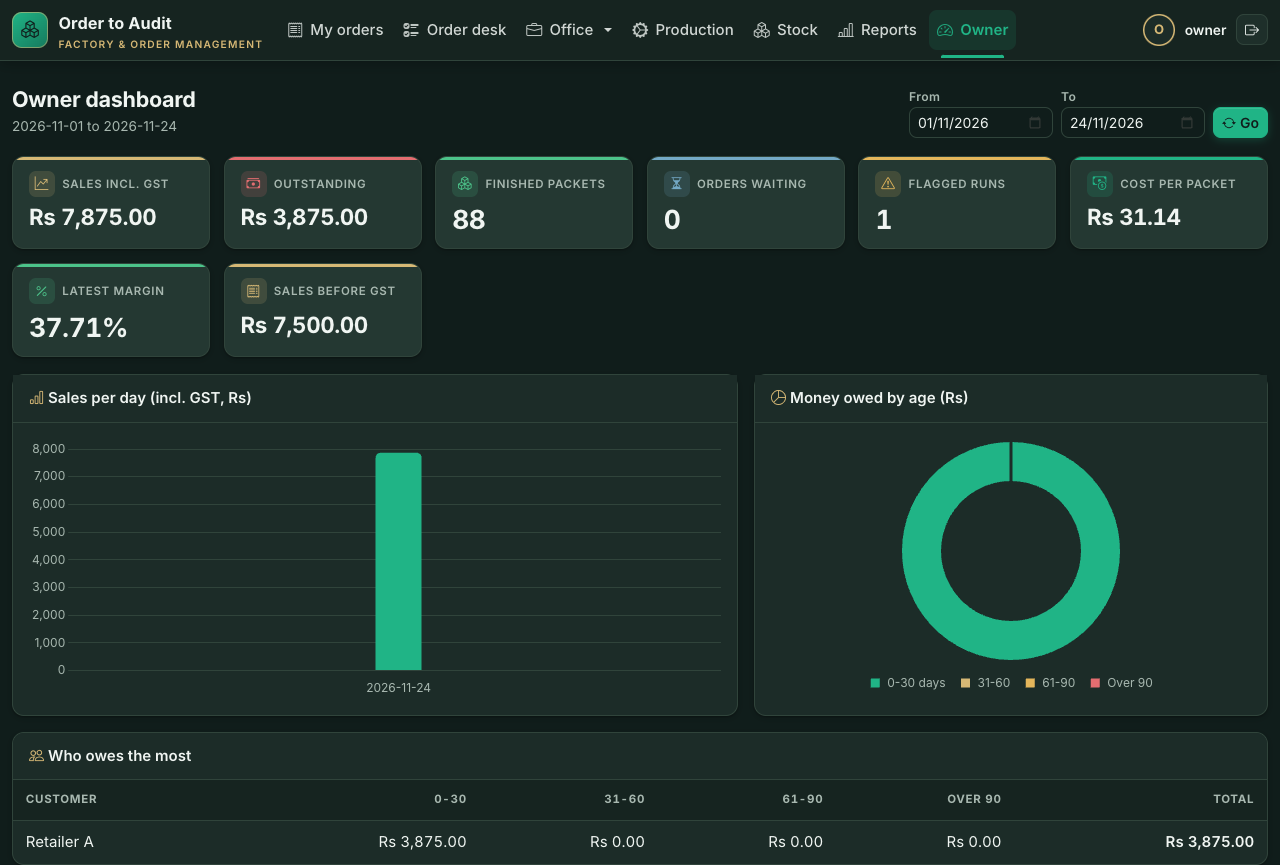
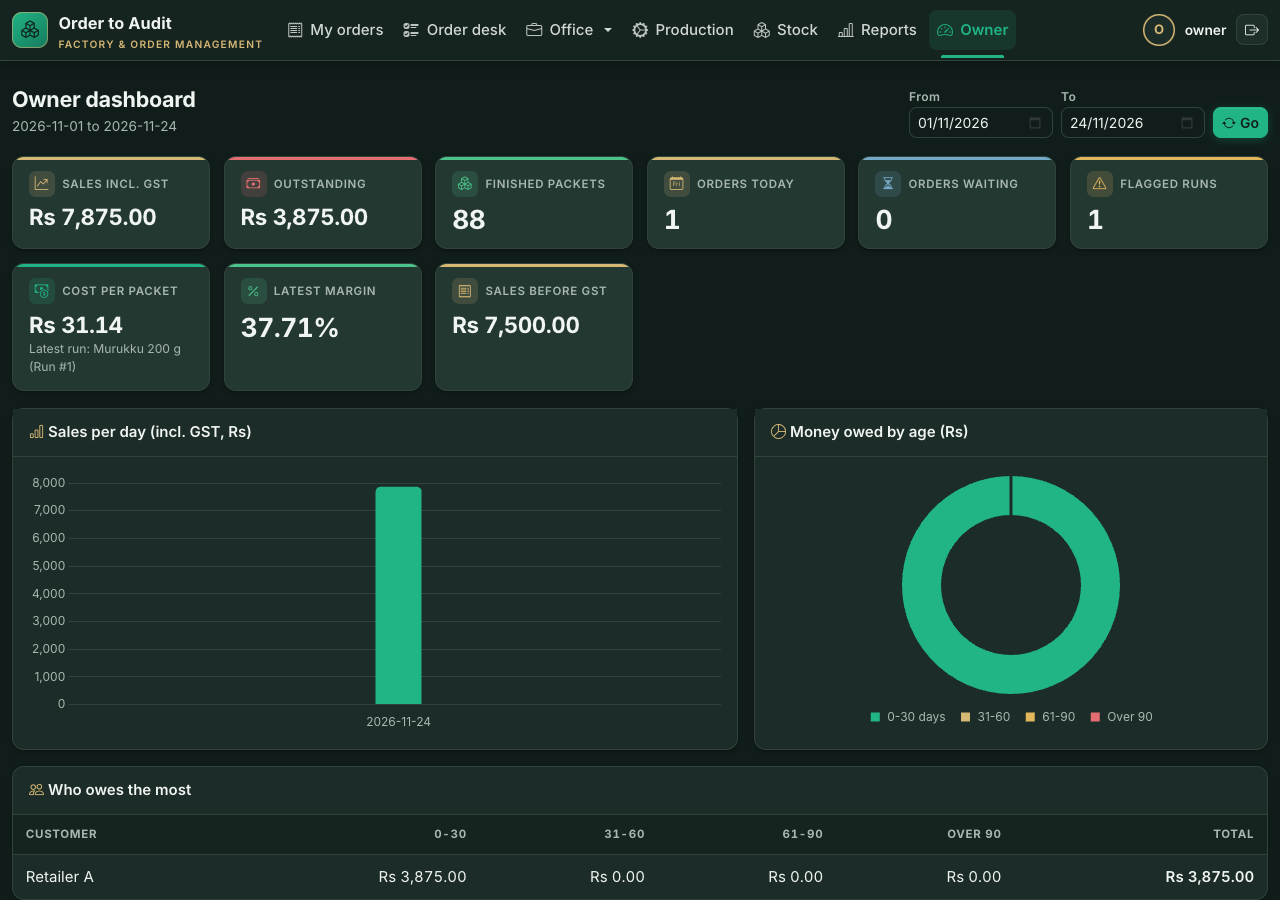
M7, M10, M11: seller details from config, pouch cross-check, run correction hint

diff --git a/src/main/resources/templates/production/run.html b/src/main/resources/templates/production/run.html
@@ -43,6 +43,8 @@
   <form method="post" th:action="@{/production/runs/{id}/reverse(id=${run.summary.id})}"
         th:if="${run.summary.status.name() == 'POSTED'}">
     <button class="btn btn-outline-danger" id="reverse-run" type="submit">Reverse this run</button>
+    <div class="text-muted small mt-1" id="correction-hint">Posted runs are never edited, because their cost is already in the stock
+      ledger. To fix a wrong overhead or count, reverse this run and record it again with the right figures.</div>
   </form>
   <a class="btn btn-link" th:href="@{/production}">Back to runs</a>
 </div>

diff --git a/src/test/java/com/orderaudit/service/RunCorrectionAndPackagingIntegrationTest.java b/src/test/java/com/orderaudit/service/RunCorrectionAndPackagingIntegrationTest.java
@@ -1,0 +1,101 @@
+package com.orderaudit.service;
+
+import static org.assertj.core.api.Assertions.assertThat;
+import static org.assertj.core.api.Assertions.assertThatThrownBy;
+
+import com.orderaudit.domain.ActualLine;
+import com.orderaudit.domain.OverheadInput;
+import com.orderaudit.domain.ProductionRun;
+import com.orderaudit.domain.RunStatus;
+import java.math.BigDecimal;
+import java.time.LocalDate;
+import java.util.List;
+import org.junit.jupiter.api.BeforeEach;
+import org.junit.jupiter.api.Test;
+import org.springframework.beans.factory.annotation.Autowired;
+import org.springframework.boot.test.context.SpringBootTest;
+import org.springframework.boot.testcontainers.service.connection.ServiceConnection;
+import org.springframework.transaction.annotation.Transactional;
+import org.testcontainers.junit.jupiter.Container;
+import org.testcontainers.junit.jupiter.Testcontainers;
+import org.testcontainers.postgresql.PostgreSQLContainer;
+
+/**
+ * Audit findings M7 and M11.
+ * M7: a posted run is never edited (its cost went into the stock ledger, which is append-only). A wrong
+ * overhead is fixed by reversing the run and posting it again with the right figures.
+ * M11: every packet made, good or damaged, used one pouch, so fewer pouches than packets cannot be true.
+ */
+@SpringBootTest
+@Testcontainers
+@Transactional
+class RunCorrectionAndPackagingIntegrationTest {
+
+    @Container
+    @ServiceConnection
+    static PostgreSQLContainer postgres = new PostgreSQLContainer("postgres:16-alpine");
+
+    private static final LocalDate DAY = LocalDate.of(2026, 11, 21);
+
+    @Autowired ItemService itemService;
+    @Autowired RecipeService recipeService;
+    @Autowired PackConfigService packConfigService;
+    @Autowired StockAdjustmentService adjustments;
+    @Autowired SupplierService supplierService;
+    @Autowired ProductionService productionService;
+    @Autowired StockService stock;
+
+    BenchmarkFixture f;
+
+    @BeforeEach
+    void setUp() {
+        f = BenchmarkFixture.create(" m7m11", null, 30, true, itemService, recipeService, packConfigService,
+                adjustments, supplierService);
+    }
+
+    private ProductionRun run(long good, long damaged, long pouchesUsed, long labourPaise) {
+        return productionService.complete(f.config.getId(), BigDecimal.ONE, DAY, good, damaged,
+                List.of(new ActualLine(f.pouch.getId(), pouchesUsed), new ActualLine(f.carton.getId(), 9)),
+                List.of(new OverheadInput("Labour", labourPaise)), "production");
+    }
+
+    @Test
+    void aWrongOverheadIsCorrectedByReversingAndPostingTheRunAgain() {
+        ProductionRun wrong = run(188, 6, 194, 180_000);
+        ProductionRun reversed = productionService.reverse(wrong.getId(), "admin");
+        ProductionRun corrected = run(188, 6, 194, 100_000);
+
+        assertThat(reversed.getStatus()).isEqualTo(RunStatus.REVERSED);
+        assertThat(corrected.getStatus()).isEqualTo(RunStatus.POSTED);
+        assertThat(corrected.getCostPerPacket()).isLessThan(wrong.getCostPerPacket());
+        assertThat(stock.balanceOf(f.murukku.getId())).isEqualTo(50 + 188);   // only the corrected run counts
+        assertThat(stock.reconcile()).isEmpty();
+    }
+
+    @Test
+    void fewerPouchesThanPacketsMadeIsRefused() {
+        // 188 good + 6 damaged = 194 packets, but only 190 pouches recorded as used.
+        assertThatThrownBy(() -> run(188, 6, 190, 180_000))
+                .isInstanceOf(IllegalArgumentException.class)
+                .hasMessageContaining("Packaging count does not add up").hasMessageContaining("194");
+        assertThat(stock.balanceOf(f.pouch.getId())).isEqualTo(500);          // nothing was posted
+    }
+
+    @Test
+    void exactlyOnePouchPerPacketIsAccepted() {
+        // 188 good + 6 damaged = 194 packets and exactly 194 pouches. (The official Rs 31.14 figure is proven
+        // in ProductionBenchmarkIntegrationTest, which also has the 60 kg flour purchase and both overheads.)
+        ProductionRun run = run(188, 6, 194, 180_000);
+        assertThat(run.getStatus()).isEqualTo(RunStatus.POSTED);
+        assertThat(stock.balanceOf(f.pouch.getId())).isEqualTo(500 - 194);
+    }
+
+    @Test
+    void whenNoPouchCountIsGivenThePlannedCountIsCheckedInstead() {
+        // The plan expects 200 packets, so 200 pouches are planned; 201 packets cannot come out of that.
+        assertThatThrownBy(() -> productionService.complete(f.config.getId(), BigDecimal.ONE, DAY, 195, 6,
+                List.of(), List.of(), "production"))
+                .isInstanceOf(IllegalArgumentException.class)
+                .hasMessageContaining("Packaging count does not add up");
+    }
+}

diff --git a/src/test/java/com/orderaudit/service/InvoiceSellerDetailsIntegrationTest.java b/src/test/java/com/orderaudit/service/InvoiceSellerDetailsIntegrationTest.java
@@ -1,0 +1,78 @@
+package com.orderaudit.service;
+
+import static org.assertj.core.api.Assertions.assertThat;
+
+import com.lowagie.text.pdf.PdfReader;
+import com.lowagie.text.pdf.parser.PdfTextExtractor;
+import com.orderaudit.domain.Customer;
+import com.orderaudit.domain.Invoice;
+import com.orderaudit.domain.Item;
+import com.orderaudit.domain.ItemType;
+import com.orderaudit.domain.OrderLineRequest;
+import com.orderaudit.domain.SalesOrder;
+import com.orderaudit.domain.Unit;
+import com.orderaudit.report.InvoicePdfRenderer;
+import java.math.BigDecimal;
+import java.time.LocalDate;
+import java.util.List;
+import org.junit.jupiter.api.BeforeEach;
+import org.junit.jupiter.api.Test;
+import org.springframework.beans.factory.annotation.Autowired;
+import org.springframework.boot.test.context.SpringBootTest;
+import org.springframework.boot.testcontainers.service.connection.ServiceConnection;
+import org.springframework.transaction.annotation.Transactional;
+import org.testcontainers.junit.jupiter.Container;
+import org.testcontainers.junit.jupiter.Testcontainers;
+import org.testcontainers.postgresql.PostgreSQLContainer;
+
+/** Audit finding M10: the seller's name, GSTIN and state on the invoice PDF come from configuration. */
+@SpringBootTest
+@Testcontainers
+@Transactional
+class InvoiceSellerDetailsIntegrationTest {
+
+    @Container
+    @ServiceConnection
+    static PostgreSQLContainer postgres = new PostgreSQLContainer("postgres:16-alpine");
+
+    @Autowired ItemService itemService;
+    @Autowired CustomerService customerService;
+    @Autowired StockAdjustmentService adjustments;
+    @Autowired PriceService priceService;
+    @Autowired OrderService orderService;
+    @Autowired InvoiceService invoiceService;
+
+    Invoice invoice;
+
+    @BeforeEach
+    void setUp() {
+        Item product = itemService.create("Seller Murukku", ItemType.FINISHED, Unit.PACKET, null, new BigDecimal("5"));
+        adjustments.recordOpening(product.getId(), 1_000, null, "Opening stock", "admin");
+        priceService.setListPrice(product.getId(), 5_000);
+        Customer retailer = customerService.create("Retailer A", null, "33", null);
+        SalesOrder order = orderService.submit(retailer.getId(), "ravi", null, null,
+                List.of(new OrderLineRequest(product.getId(), 150)));
+        orderService.approve(order.getId(), "admin");
+        invoice = invoiceService.raise(order.getId(), LocalDate.of(2026, 11, 21), "admin");
+    }
+
+    private String text(byte[] pdf) throws Exception {
+        return new PdfTextExtractor(new PdfReader(pdf)).getTextFromPage(1);
+    }
+
+    @Test
+    void theDefaultSellerIsTheDemoTamilNaduSupplier() throws Exception {
+        String text = text(InvoicePdfRenderer.render(invoice, invoiceService.linesOf(invoice.getId())));
+        assertThat(text).contains("Murukku Foods (demo)").contains("Tamil Nadu (33)");
+    }
+
+    @Test
+    void aConfiguredSellerIsPrintedInsteadOfTheDemoOne() throws Exception {
+        var seller = new InvoicePdfRenderer.Seller("Kerala Snacks Ltd", "32BBBBB1111B1Z6", "Kerala (32)");
+        String text = text(InvoicePdfRenderer.render(invoice, invoiceService.linesOf(invoice.getId()), seller));
+        assertThat(text).contains("Kerala Snacks Ltd").contains("32BBBBB1111B1Z6").contains("Kerala (32)")
+                .doesNotContain("Tamil Nadu (33)");
+        // Amounts come from the stored invoice, so changing the seller never changes the money.
+        assertThat(text).contains("7,875.00");
+    }
+}

diff --git a/src/main/java/com/orderaudit/service/ProductionService.java b/src/main/java/com/orderaudit/service/ProductionService.java
@@ -14,6 +14,7 @@ import com.orderaudit.domain.RunStatus;
 import com.orderaudit.domain.SourceType;
 import com.orderaudit.domain.StockMovement;
 import com.orderaudit.domain.Variance;
+import com.orderaudit.domain.PackBasis;
 import com.orderaudit.repository.PackConfigRepository;
 import com.orderaudit.repository.ProductionRunRepository;
 import com.orderaudit.repository.RecipeRepository;
@@ -160,6 +161,22 @@ public class ProductionService {
             Variance variance = VarianceCalculator.compute(line.plannedQuantity(), actualQty, tolerance);
             totalMaterial += lineCost;
             computed.add(new Costed(line, actualQty, unitCost, lineCost, variance));
+        }
+        // Every packet made (good or damaged) used up its per-packet packaging (the pouch), so the pouches
+        // actually used can never be fewer than good + damaged.
+        for (var packLine : bom.packLinesOf(packConfigId)) {
+            if (packLine.getBasis() != PackBasis.PER_PACKET) {
+                continue;
+            }
+            long required = Math.multiplyExact(actualGoodPackets + damagedPouches, packLine.getQuantity());
+            long used = actualByItem.getOrDefault(packLine.getItemId(),
+                    ordered.stream().filter(l -> l.itemId() == packLine.getItemId())
+                            .mapToLong(PlannedLine::plannedQuantity).sum());
+            if (used < required) {
+                throw new IllegalArgumentException("Packaging count does not add up: " + actualGoodPackets
+                        + " good packets + " + damagedPouches + " damaged pouches need at least " + required
+                        + " of the per-packet packaging item, but only " + used + " were recorded as used");
+            }
         }
         long totalOverhead = overheadList.stream().mapToLong(OverheadInput::amountPaise).sum();
         long totalCost = totalMaterial + totalOverhead;

diff --git a/src/main/java/com/orderaudit/report/InvoicePdfRenderer.java b/src/main/java/com/orderaudit/report/InvoicePdfRenderer.java
@@ -28,6 +28,13 @@ public final class InvoicePdfRenderer {
     static final String SELLER_GSTIN = "33AAAAA0000A1Z5";
     static final String SELLER_STATE = "Tamil Nadu (33)";
 
+    /** Who is selling. Deployments set this in application.yml (app.seller.*); these defaults are the demo values. */
+    public record Seller(String name, String gstin, String state) {
+        public static Seller demo() {
+            return new Seller(SELLER_NAME, SELLER_GSTIN, SELLER_STATE);
+        }
+    }
+
     private static final Font TITLE = FontFactory.getFont(FontFactory.HELVETICA_BOLD, 16);
     private static final Font BOLD = FontFactory.getFont(FontFactory.HELVETICA_BOLD, 9);
     private static final Font NORMAL = FontFactory.getFont(FontFactory.HELVETICA, 9);
@@ -36,6 +43,10 @@ public final class InvoicePdfRenderer {
     }
 
     public static byte[] render(Invoice invoice, List<InvoiceLine> lines) {
+        return render(invoice, lines, Seller.demo());
+    }
+
+    public static byte[] render(Invoice invoice, List<InvoiceLine> lines, Seller seller) {
         ByteArrayOutputStream out = new ByteArrayOutputStream();
         Document document = new Document(PageSize.A4, 36, 36, 36, 36);
         try {
@@ -47,7 +58,7 @@ public final class InvoicePdfRenderer {
 
             PdfPTable parties = new PdfPTable(2);
             parties.setWidthPercentage(100);
-            parties.addCell(partyCell("Supplier", SELLER_NAME, "GSTIN: " + SELLER_GSTIN, "State: " + SELLER_STATE));
+            parties.addCell(partyCell("Supplier", seller.name(), "GSTIN: " + seller.gstin(), "State: " + seller.state()));
             parties.addCell(partyCell("Bill to", invoice.getCustomerName(),
                     "GSTIN: " + (invoice.getCustomerGstin() == null ? "unregistered" : invoice.getCustomerGstin()),
                     "State: " + invoice.getCustomerState()));

diff --git a/src/main/java/com/orderaudit/web/AdminInvoiceController.java b/src/main/java/com/orderaudit/web/AdminInvoiceController.java
@@ -25,6 +25,14 @@ import org.springframework.web.servlet.mvc.support.RedirectAttributes;
 @RequestMapping("/admin/invoices")
 public class AdminInvoiceController {
 
+    // Seller details printed on the invoice PDF; set app.seller.* in application.yml (or env vars) per deployment.
+    @org.springframework.beans.factory.annotation.Value("${app.seller.name:Murukku Foods (demo)}")
+    private String sellerName;
+    @org.springframework.beans.factory.annotation.Value("${app.seller.gstin:33AAAAA0000A1Z5}")
+    private String sellerGstin;
+    @org.springframework.beans.factory.annotation.Value("${app.seller.state:Tamil Nadu (33)}")
+    private String sellerState;
+
     private final InvoiceService invoices;
     private final CreditNoteService creditNotes;
     private final ReceivablesService receivables;
@@ -72,7 +80,8 @@ public class AdminInvoiceController {
         } catch (IllegalArgumentException e) {
             throw new ResponseStatusException(HttpStatus.NOT_FOUND, e.getMessage());
         }
-        byte[] bytes = com.orderaudit.report.InvoicePdfRenderer.render(invoice, invoices.linesOf(id));
+        byte[] bytes = com.orderaudit.report.InvoicePdfRenderer.render(invoice, invoices.linesOf(id),
+                new com.orderaudit.report.InvoicePdfRenderer.Seller(sellerName, sellerGstin, sellerState));
         String fileName = invoice.getInvoiceNumber().replace('/', '-') + ".pdf";
         return org.springframework.http.ResponseEntity.ok()
                 .contentType(org.springframework.http.MediaType.APPLICATION_PDF)

diff --git a/src/main/java/com/orderaudit/service/BomService.java b/src/main/java/com/orderaudit/service/BomService.java
@@ -46,4 +46,10 @@ public class BomService {
         return BomPlanner.plan(recipe.getBulkYieldGrams(), config.getPackSizeGrams(),
                 config.getPacketsPerCarton(), recipeSpecs, packSpecs, batchMultiplier);
     }
+
+    /** The packaging lines of a pack configuration (used to cross-check pouch counts against packets). */
+    @Transactional(readOnly = true)
+    public List<com.orderaudit.domain.PackLine> packLinesOf(long packConfigId) {
+        return packLines.findByPackConfigId(packConfigId);
+    }
 }

diff --git a/docs/EVALUATION_REPORT.md b/docs/EVALUATION_REPORT.md
@@ -69,9 +69,11 @@ official benchmark values were never changed to make a test pass. The suite now 
 | M6 | Customers and suppliers could not be corrected or switched off | Edit and switch off/on screens, audited; old invoices keep their original details |
 | M9 | Credit notes were hidden inside the GST sales rows | Separate "credit notes" rows; the total is still the net figure |
 
-Still open (low impact): M7 overheads can only be entered when a run is created; M8 a returned order still shows
-"Dispatched" (its invoice shows Cancelled); M10 the invoice PDF's seller state text is fixed at Tamil Nadu (33);
-M11 pouch counts are not cross-checked against packets.
+| M7 | Overheads could only be entered when a run is created | By design: a posted run is never edited because its cost is in the append-only ledger. The run screen now says "reverse and record again", and a test proves the correction path |
+| M10 | Seller state on the invoice PDF was fixed at Tamil Nadu (33) | Seller name, GSTIN and state come from `app.seller.*` in application.yml (env vars APP_SELLER_*) |
+| M11 | Pouch counts were not cross-checked against packets | Pouches used must be at least good + damaged packets, otherwise the run is refused |
+
+All audit findings are now closed. M8 (returned orders still showing "Dispatched") is fixed with a "Returned" badge.
 
 ## Known limitations (honest list)
 - Recipes and pack configurations can be created from the screen but not edited afterwards.

diff --git a/docs/INTERVIEW_QA.md b/docs/INTERVIEW_QA.md
@@ -52,3 +52,8 @@
 
 **A test failed because of a flush. What was that?** The reports read with plain SQL, but inside one test transaction JPA had not yet written the change. The fix was in the test (flush first), not the app, because in the real app each request is its own transaction.
 
+**Overheads were wrong on a posted run. Why can't you just edit them?** The run's cost per packet is already in the stock ledger as the cost of the finished goods, and ledger rows are append-only. Editing the overhead would make the run disagree with its own stock movement. So you reverse the run (new reversal rows) and record it again with the right overheads. Nothing is deleted, and the audit log shows both steps.
+
+**What is the pouch check?** Every packet made, good or damaged, used one pouch. So the pouches recorded as used must be at least good packets plus damaged pouches. For the benchmark that is 188 + 6 = 194 pouches, exactly what the official run records. If someone types fewer, the run is refused with a message.
+
+**Where does the seller's name and state on the invoice come from?** From `app.seller.*` in application.yml (or the APP_SELLER_NAME, APP_SELLER_GSTIN and APP_SELLER_STATE environment variables). The demo values are Tamil Nadu (33), and a real business just sets its own.
